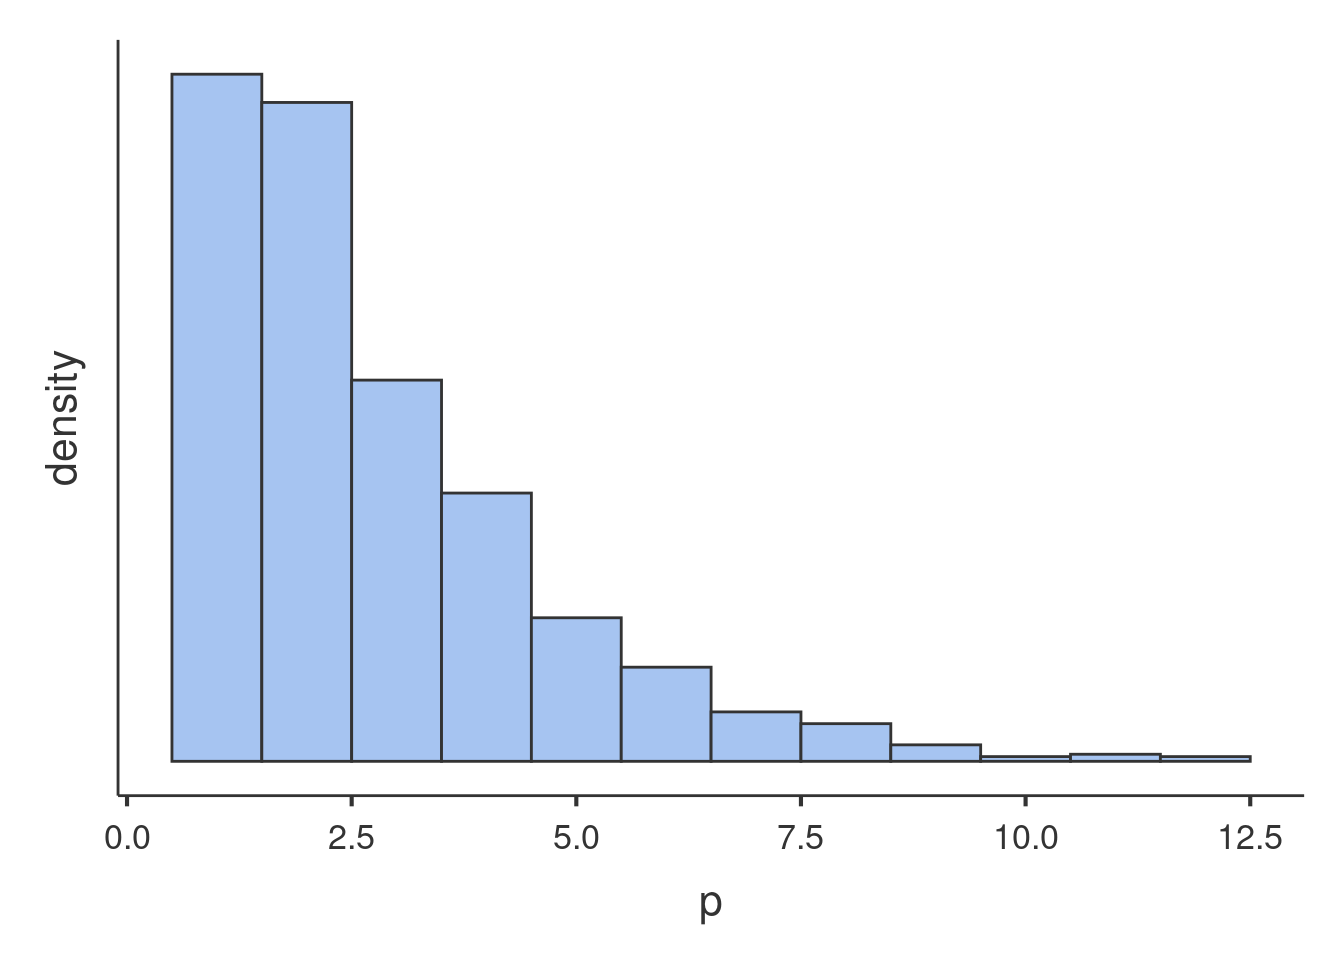
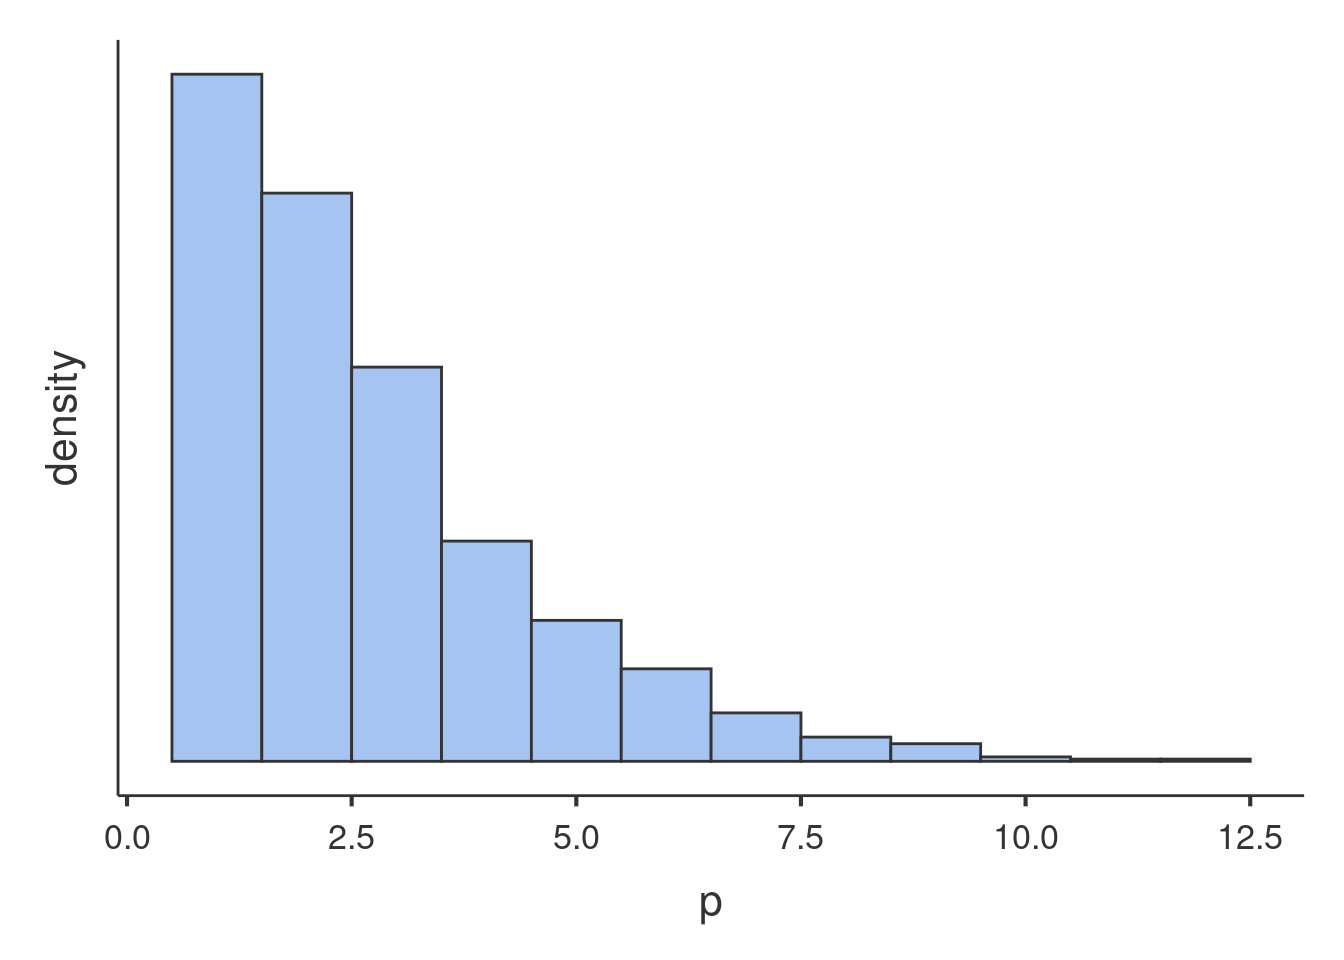
updates

diff --git a/docssource/glmmixed_example2.html b/docssource/glmmixed_example2.html
@@ -420,7 +420,7 @@ div.tocify {
 <p><img src="glmmixed_example2_files/figure-html/unnamed-chunk-2-1.png" width="672" /></p>
 <p>Glancing at the histogram makes it clear that the distribution is not normal, but it roughly resembles the Poisson distribution. Here is an example of Poisson distribution with equivalent mean.</p>
 <p><img src="glmmixed_example2_files/figure-html/unnamed-chunk-3-1.png" width="672" /></p>
-<p>We can see that the shape of our distribution is not qualitatively very different as compared with a theoretical Poisson distribution, so a Generalized Linear Model with Poisson distribition may work. However, we can check wheather our distribution is in line with the features of the Poisson dist by checking its mean and variance. The Poisson distribution has variance equal to the mean, in fact the simulated distribution in the histogram has <span class="math inline">\(\bar{x}=1.729\)</span> and <span class="math inline">\(s^2=1.871\)</span>. The <code>art</code> variable distribution has <span class="math inline">\(\bar{x}=1.693\)</span> and <span class="math inline">\(s^2=3.71\)</span>, with a ratio variance/mean of 2.191, which does not really qualify for Poisson dist. This looks like a case of <strong>overdispersion</strong>, <a href="http://bbolker.github.io/mixedmodels-misc/glmmFAQ.html#overdispersion">cf. here for details</a>. We will than consider a Negative Binomial model to account for possible overdispersion.</p>
+<p>We can see that the shape of our distribution is not qualitatively very different as compared with a theoretical Poisson distribution, so a Generalized Linear Model with Poisson distribition may work. However, we can check wheather our distribution is in line with the features of the Poisson dist by checking its mean and variance. The Poisson distribution has variance equal to the mean, in fact the simulated distribution in the histogram has <span class="math inline">\(\bar{x}=1.642\)</span> and <span class="math inline">\(s^2=1.505\)</span>. The <code>art</code> variable distribution has <span class="math inline">\(\bar{x}=1.693\)</span> and <span class="math inline">\(s^2=3.71\)</span>, with a ratio variance/mean of 2.191, which does not really qualify for Poisson dist. This looks like a case of <strong>overdispersion</strong>, <a href="http://bbolker.github.io/mixedmodels-misc/glmmFAQ.html#overdispersion">cf. here for details</a>. We will than consider a Negative Binomial model to account for possible overdispersion.</p>
 <p>An example of Negative Binomial distribution with equivalent mean and variance is here.</p>
 <p><img src="glmmixed_example2_files/figure-html/unnamed-chunk-4-1.png" width="672" /></p>
 <p>The second issue one needs to deal with is the structure of the data. We have seen that the students are not a random sample of students drawn independently one each other, but they are grouped by the program they are enrolled in. There are 83 programs, in each program there are on average 11 students. Because students in the same program may be more similar one each other than across programs, <code>programs</code> may cluster the scores of the dependent variable and create dependency in the data. To take dependency into the account, we will use a random intercepts model estimated with a Generalized Mixed Model.</p>
